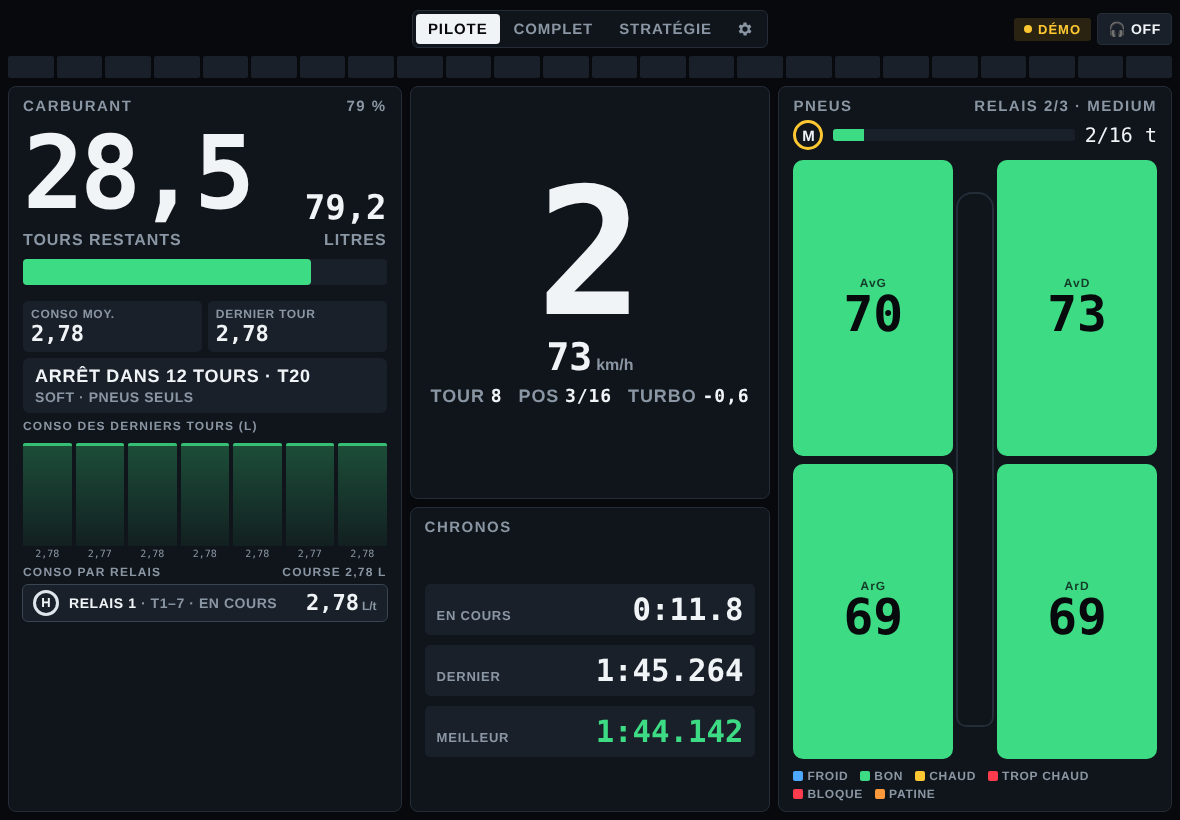
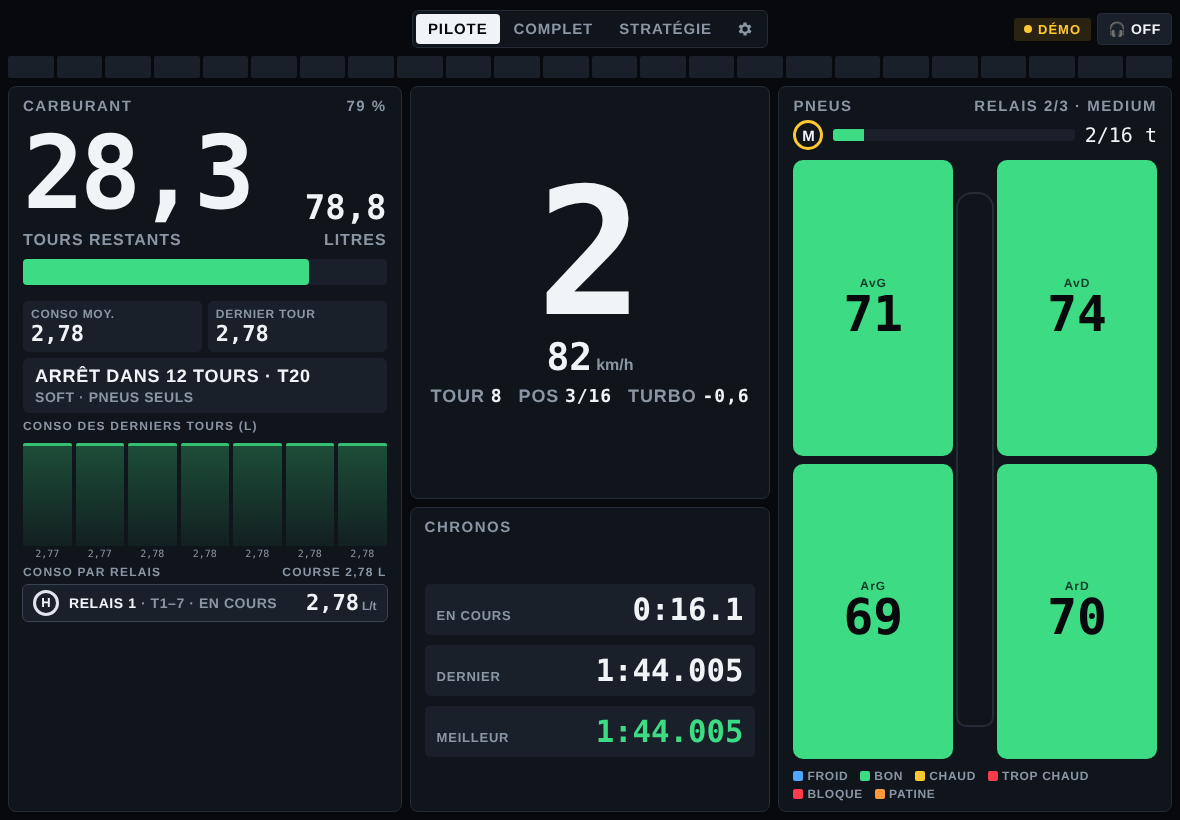
Stratégie : retrait des réglages usure et conso ; Pilote : alerte stand clignotante au-dessus du rapport
Claude-Session: https://claude.ai/code/session_01BTEhDGdTr51o2wPCPodFJh

diff --git a/race-engineer/web/strategie.html b/race-engineer/web/strategie.html
@@ -242,8 +242,6 @@ nav.tabs3 a:focus-visible{outline:2px solid var(--accent);outline-offset:1px}
       <section class="panel">
         <h2>Réglages du salon GT7</h2>
         <div class="fields">
-          <label>Usure des pneus<select id="mTyre"></select><span class="hint">pour info</span></label>
-          <label>Consommation carburant<select id="mFuel"></select><span class="hint">pour info</span></label>
           <label>Type de course<select id="mode"><option value="time">À la durée</option><option value="laps">Au nombre de tours</option></select></label>
           <label id="w-duree">Durée de course<span class="unit"><input type="number" id="duree" min="1" step="1"><span>min</span></span></label>
           <label id="w-laps" hidden>Nombre de tours<span class="unit"><input type="number" id="laps" min="1" step="1"><span>tours</span></span></label>
@@ -293,12 +291,11 @@ nav.tabs3 a:focus-visible{outline:2px solid var(--accent);outline-offset:1px}
 <script>
 const COMPS=[{k:"S",name:"Soft"},{k:"M",name:"Medium"},{k:"H",name:"Hard"}];
 const CN={S:"Soft",M:"Medium",H:"Hard"};
-const DEF={mode:"time",duree:60,laps:35,tank:100,start:100,mTyre:1,mFuel:1,rate:4,mDeb:100,mFin:86,mTours:5,pitMode:"rate",pitFull:50,pitTyre:30,qty:60,nReq:3,manual:false,seq:[],
+const DEF={mode:"time",duree:60,laps:35,tank:100,start:100,rate:4,mDeb:100,mFin:86,mTours:5,pitMode:"rate",pitFull:50,pitTyre:30,qty:60,nReq:3,manual:false,seq:[],
   S:{lap:"1:44.200",life:12,req:true},M:{lap:"1:45.000",life:20,req:true},H:{lap:"1:45.900",life:30,req:true}};
 const clone=o=>JSON.parse(JSON.stringify(o));
 let S=clone(DEF),tab="strat",selN=null;
 try{const o=JSON.parse(localStorage.getItem("gt7-endu-v1")||"null");if(o&&o.S){const d=clone(DEF);S=Object.assign(d,o.S);COMPS.forEach(c=>S[c.k]=Object.assign(clone(DEF[c.k]),o.S[c.k]||{}));tab=o.tab||tab}}catch(e){}
-if(!(+S.mTyre>=1&&+S.mTyre<=10))S.mTyre=1;if(!(+S.mFuel>=1&&+S.mFuel<=10))S.mFuel=1;
 const save=()=>{try{localStorage.setItem("gt7-endu-v1",JSON.stringify({S,tab}))}catch(e){}};
 const $=id=>document.getElementById(id);
 const num=v=>v===""||v==null?NaN:typeof v==="number"?v:parseFloat(String(v).replace(",","."));
@@ -313,13 +310,11 @@ const plural=(n,w)=>`${n} ${w}${n>1?"s":""}`;
 const MAX=999;
 
 /* ---- formulaire ---- */
-const mults=()=>Array.from({length:10},(_,i)=>i+1).map(v=>`<option value="${v}">${v}×</option>`).join("");
-$("mTyre").innerHTML=mults();$("mFuel").innerHTML=mults();
 $("tyres").innerHTML=COMPS.map(c=>`<tr><td class="lbl">${chip(c.k)} ${c.name}</td>
   <td><input type="text" id="${c.k}-lap" inputmode="decimal" aria-label="Temps au tour ${c.name}"></td>
   <td><input type="number" id="${c.k}-life" min="1" step="1" aria-label="Vie ${c.name} en tours"></td>
   <td class="l"><input type="checkbox" id="${c.k}-req" aria-label="${c.name} obligatoire"></td></tr>`).join("");
-const FIELDS=["mode","duree","laps","tank","start","mTyre","mFuel","rate","mDeb","mFin","mTours","pitMode","pitFull","pitTyre","qty","nReq"];
+const FIELDS=["mode","duree","laps","tank","start","rate","mDeb","mFin","mTours","pitMode","pitFull","pitTyre","qty","nReq"];
 function fillForm(){FIELDS.forEach(f=>$(f).value=S[f]);COMPS.forEach(c=>{["lap","life"].forEach(f=>$(`${c.k}-${f}`).value=S[c.k][f]);$(`${c.k}-req`).checked=!!S[c.k].req})}
 document.addEventListener("input",e=>{const el=e.target,id=el.id;if(!id)return;
   if(FIELDS.includes(id))S[id]=el.value;else{const m=id.match(/^([SMH])-(lap|life|req)$/);if(!m)return;S[m[1]][m[2]]=el.type==="checkbox"?el.checked:el.value}
@@ -331,10 +326,10 @@ $("reset").addEventListener("click",()=>{const b=$("reset");
 
 /* ---- calculs ---- */
 function derive(){
-  const P={mode:S.mode,T:num(S.duree)*60,L:Math.floor(num(S.laps)),tank:num(S.tank),start:Math.min(num(S.start),num(S.tank)),mTyre:num(S.mTyre),mFuel:num(S.mFuel),
+  const P={mode:S.mode,T:num(S.duree)*60,L:Math.floor(num(S.laps)),tank:num(S.tank),start:Math.min(num(S.start),num(S.tank)),
     rate:num(S.rate),pitMode:S.pitMode,pitFull:num(S.pitFull),pitTyre:num(S.pitTyre),nReq:+S.nReq};
   P.c0=(num(S.mDeb)-num(S.mFin))/num(S.mTours);
-  P.c=P.c0;   // conso mesurée = conso de course : le multiplicateur est seulement affiché
+  P.c=P.c0;   // conso mesurée avec les réglages du salon de la course
   P.comps=COMPS.map(c=>{const x=S[c.k],life=Math.floor(num(x.life));
     return{k:c.k,lap:parseLap(x.lap),req:!!x.req,life:Math.min(MAX,life),life0:life}});
   P.fuelCap=x=>P.c>0?Math.min(MAX,Math.floor(x/P.c+1e-9)):MAX;
@@ -394,7 +389,7 @@ function render(){
   $("v-strat").hidden=tab!=="strat";$("v-par").hidden=tab!=="par";
   $("w-duree").hidden=S.mode!=="time";$("w-laps").hidden=S.mode!=="laps";$("w-pitFull").hidden=S.pitMode!=="fixed";
   const P=derive();
-  $("meta").innerHTML=`<span>${P.mode==="time"?`Durée <b>${f0(num(S.duree))} min</b>`:`Course <b>${f0(P.L)} tours</b>`}</span><span>Usure <b>${S.mTyre}×</b></span><span>Conso <b>${S.mFuel}×</b></span><span>Refuel <b>${f1(P.rate)} L/s</b></span><span>Réservoir <b>${f0(P.tank)} L</b></span>`;
+  $("meta").innerHTML=`<span>${P.mode==="time"?`Durée <b>${f0(num(S.duree))} min</b>`:`Course <b>${f0(P.L)} tours</b>`}</span><span>Refuel <b>${f1(P.rate)} L/s</b></span><span>Réservoir <b>${f0(P.tank)} L</b></span>`;
   // sorties de l'onglet Paramètres
   $("consoOut").innerHTML=P.c0>0?`<span>Conso : <b>${f2(P.c)} L/tour</b></span><span>Plein de ${f0(P.tank)} L : <b>${P.c>0?Math.floor(P.tank/P.c+1e-9)+" tours":"illimité"}</b></span>`:`<span>Entre le carburant au début, à la fin et le nombre de tours.</span>`;
   $("pitOut").innerHTML=P.pitMode==="rate"
@@ -438,7 +433,7 @@ function render(){
     const gap=r===best?"–":d!==0?`${d>0?"+":""}${d} tour${Math.abs(d)>1?"s":""}`:`+${f1(r.time-best.time)} s`;
     return`<tr class="pick${!useManual&&n===selN?" sel":""}" data-n="${n}" tabindex="0"><td>${plural(n,"arrêt")}${r===best?'<span class="tag">Meilleure</span>':""}</td><td class="l"><span class="chips">${r.seq.map(g=>chip(g.k)).join("")}</span></td><td>${mn===mx?mn:mn+"–"+mx}</td><td><b>${r.laps}</b></td><td>${f0(r.pits)} s</td><td>${gap}</td></tr>`}).join("");
   $("kpis").innerHTML=[
-    ["Conso / tour",f2(P.c)+" L",`salon : conso ${S.mFuel}×`,0],
+    ["Conso / tour",f2(P.c)+" L",`mesurée sur ${f0(num(S.mTours))} tours`,0],
     ["Tours avec un plein",P.c>0?Math.floor(P.tank/P.c+1e-9):"∞",`${f0(P.tank)} L`,0],
     ["Arrêts",nStops(sel),useManual?"mon choix de gommes":selN===nStops(best)?"stratégie conseillée":"stratégie choisie",1],
     ["Tours de course",sel.laps,P.mode==="time"?"drapeau à damier inclus":"fixés",0],

diff --git a/index.html b/index.html
@@ -223,8 +223,6 @@ img{max-width:100%}
       <section class="panel">
         <h2>Réglages du salon GT7</h2>
         <div class="fields">
-          <label>Usure des pneus<select id="mTyre"></select><span class="hint">pour info</span></label>
-          <label>Consommation carburant<select id="mFuel"></select><span class="hint">pour info</span></label>
           <label>Type de course<select id="mode"><option value="time">À la durée</option><option value="laps">Au nombre de tours</option></select></label>
           <label id="w-duree">Durée de course<span class="unit"><input type="number" id="duree" min="1" step="1"><span>min</span></span></label>
           <label id="w-laps" hidden>Nombre de tours<span class="unit"><input type="number" id="laps" min="1" step="1"><span>tours</span></span></label>
@@ -274,12 +272,11 @@ img{max-width:100%}
 <script>
 const COMPS=[{k:"S",name:"Soft"},{k:"M",name:"Medium"},{k:"H",name:"Hard"}];
 const CN={S:"Soft",M:"Medium",H:"Hard"};
-const DEF={mode:"time",duree:60,laps:35,tank:100,start:100,mTyre:1,mFuel:1,rate:4,mDeb:100,mFin:86,mTours:5,pitMode:"rate",pitFull:50,pitTyre:30,qty:60,nReq:3,manual:false,seq:[],
+const DEF={mode:"time",duree:60,laps:35,tank:100,start:100,rate:4,mDeb:100,mFin:86,mTours:5,pitMode:"rate",pitFull:50,pitTyre:30,qty:60,nReq:3,manual:false,seq:[],
   S:{lap:"1:44.200",life:12,req:true},M:{lap:"1:45.000",life:20,req:true},H:{lap:"1:45.900",life:30,req:true}};
 const clone=o=>JSON.parse(JSON.stringify(o));
 let S=clone(DEF),tab="strat",selN=null;
 try{const o=JSON.parse(localStorage.getItem("gt7-endu-v1")||"null");if(o&&o.S){const d=clone(DEF);S=Object.assign(d,o.S);COMPS.forEach(c=>S[c.k]=Object.assign(clone(DEF[c.k]),o.S[c.k]||{}));tab=o.tab||tab}}catch(e){}
-if(!(+S.mTyre>=1&&+S.mTyre<=10))S.mTyre=1;if(!(+S.mFuel>=1&&+S.mFuel<=10))S.mFuel=1;
 const save=()=>{try{localStorage.setItem("gt7-endu-v1",JSON.stringify({S,tab}))}catch(e){}};
 const $=id=>document.getElementById(id);
 const num=v=>v===""||v==null?NaN:typeof v==="number"?v:parseFloat(String(v).replace(",","."));
@@ -294,13 +291,11 @@ const plural=(n,w)=>`${n} ${w}${n>1?"s":""}`;
 const MAX=999;
 
 /* ---- formulaire ---- */
-const mults=()=>Array.from({length:10},(_,i)=>i+1).map(v=>`<option value="${v}">${v}×</option>`).join("");
-$("mTyre").innerHTML=mults();$("mFuel").innerHTML=mults();
 $("tyres").innerHTML=COMPS.map(c=>`<tr><td class="lbl">${chip(c.k)} ${c.name}</td>
   <td><input type="text" id="${c.k}-lap" inputmode="decimal" aria-label="Temps au tour ${c.name}"></td>
   <td><input type="number" id="${c.k}-life" min="1" step="1" aria-label="Vie ${c.name} en tours"></td>
   <td class="l"><input type="checkbox" id="${c.k}-req" aria-label="${c.name} obligatoire"></td></tr>`).join("");
-const FIELDS=["mode","duree","laps","tank","start","mTyre","mFuel","rate","mDeb","mFin","mTours","pitMode","pitFull","pitTyre","qty","nReq"];
+const FIELDS=["mode","duree","laps","tank","start","rate","mDeb","mFin","mTours","pitMode","pitFull","pitTyre","qty","nReq"];
 function fillForm(){FIELDS.forEach(f=>$(f).value=S[f]);COMPS.forEach(c=>{["lap","life"].forEach(f=>$(`${c.k}-${f}`).value=S[c.k][f]);$(`${c.k}-req`).checked=!!S[c.k].req})}
 document.addEventListener("input",e=>{const el=e.target,id=el.id;if(!id)return;
   if(FIELDS.includes(id))S[id]=el.value;else{const m=id.match(/^([SMH])-(lap|life|req)$/);if(!m)return;S[m[1]][m[2]]=el.type==="checkbox"?el.checked:el.value}
@@ -312,10 +307,10 @@ $("reset").addEventListener("click",()=>{const b=$("reset");
 
 /* ---- calculs ---- */
 function derive(){
-  const P={mode:S.mode,T:num(S.duree)*60,L:Math.floor(num(S.laps)),tank:num(S.tank),start:Math.min(num(S.start),num(S.tank)),mTyre:num(S.mTyre),mFuel:num(S.mFuel),
+  const P={mode:S.mode,T:num(S.duree)*60,L:Math.floor(num(S.laps)),tank:num(S.tank),start:Math.min(num(S.start),num(S.tank)),
     rate:num(S.rate),pitMode:S.pitMode,pitFull:num(S.pitFull),pitTyre:num(S.pitTyre),nReq:+S.nReq};
   P.c0=(num(S.mDeb)-num(S.mFin))/num(S.mTours);
-  P.c=P.c0;   // conso mesurée = conso de course : le multiplicateur est seulement affiché
+  P.c=P.c0;   // conso mesurée avec les réglages du salon de la course
   P.comps=COMPS.map(c=>{const x=S[c.k],life=Math.floor(num(x.life));
     return{k:c.k,lap:parseLap(x.lap),req:!!x.req,life:Math.min(MAX,life),life0:life}});
   P.fuelCap=x=>P.c>0?Math.min(MAX,Math.floor(x/P.c+1e-9)):MAX;
@@ -375,7 +370,7 @@ function render(){
   $("v-strat").hidden=tab!=="strat";$("v-par").hidden=tab!=="par";
   $("w-duree").hidden=S.mode!=="time";$("w-laps").hidden=S.mode!=="laps";$("w-pitFull").hidden=S.pitMode!=="fixed";
   const P=derive();
-  $("meta").innerHTML=`<span>${P.mode==="time"?`Durée <b>${f0(num(S.duree))} min</b>`:`Course <b>${f0(P.L)} tours</b>`}</span><span>Usure <b>${S.mTyre}×</b></span><span>Conso <b>${S.mFuel}×</b></span><span>Refuel <b>${f1(P.rate)} L/s</b></span><span>Réservoir <b>${f0(P.tank)} L</b></span>`;
+  $("meta").innerHTML=`<span>${P.mode==="time"?`Durée <b>${f0(num(S.duree))} min</b>`:`Course <b>${f0(P.L)} tours</b>`}</span><span>Refuel <b>${f1(P.rate)} L/s</b></span><span>Réservoir <b>${f0(P.tank)} L</b></span>`;
   // sorties de l'onglet Paramètres
   $("consoOut").innerHTML=P.c0>0?`<span>Conso : <b>${f2(P.c)} L/tour</b></span><span>Plein de ${f0(P.tank)} L : <b>${P.c>0?Math.floor(P.tank/P.c+1e-9)+" tours":"illimité"}</b></span>`:`<span>Entre le carburant au début, à la fin et le nombre de tours.</span>`;
   $("pitOut").innerHTML=P.pitMode==="rate"
@@ -416,7 +411,7 @@ function render(){
     const gap=r===best?"–":d!==0?`${d>0?"+":""}${d} tour${Math.abs(d)>1?"s":""}`:`+${f1(r.time-best.time)} s`;
     return`<tr class="pick${!useManual&&n===selN?" sel":""}" data-n="${n}" tabindex="0"><td>${plural(n,"arrêt")}${r===best?'<span class="tag">Meilleure</span>':""}</td><td class="l"><span class="chips">${r.seq.map(g=>chip(g.k)).join("")}</span></td><td>${mn===mx?mn:mn+"–"+mx}</td><td><b>${r.laps}</b></td><td>${f0(r.pits)} s</td><td>${gap}</td></tr>`}).join("");
   $("kpis").innerHTML=[
-    ["Conso / tour",f2(P.c)+" L",`salon : conso ${S.mFuel}×`,0],
+    ["Conso / tour",f2(P.c)+" L",`mesurée sur ${f0(num(S.mTours))} tours`,0],
     ["Tours avec un plein",P.c>0?Math.floor(P.tank/P.c+1e-9):"∞",`${f0(P.tank)} L`,0],
     ["Arrêts",nStops(sel),useManual?"mon choix de gommes":selN===nStops(best)?"stratégie conseillée":"stratégie choisie",1],
     ["Tours de course",sel.laps,P.mode==="time"?"drapeau à damier inclus":"fixés",0],

diff --git a/race-engineer/web/pilote.html b/race-engineer/web/pilote.html
@@ -101,6 +101,13 @@ nav.tabs3 a:focus-visible{outline:2px solid var(--accent);outline-offset:1px}
 /* centre */
 #cCore{grid-area:core;align-items:center;justify-content:center;text-align:center}
 .gear{font:700 clamp(110px,15vw,210px)/.85 var(--f-mono)}
+/* alerte stand, au-dessus du rapport engagé, clignotante */
+.pitAlert{align-self:stretch;border-radius:6px;padding:6px 10px;margin-bottom:6px;font:700 clamp(17px,2.1vw,26px)/1.1 var(--f-display);text-transform:uppercase;letter-spacing:.04em;animation:pa 1s steps(2,end) infinite}
+.pitAlert small{display:block;font-size:.62em;letter-spacing:.06em;margin-top:2px;opacity:.9}
+.pitAlert.warn{background:var(--warn);color:#07090c}
+.pitAlert.crit{background:var(--accent);color:#fff}
+@keyframes pa{50%{opacity:.15}}
+@media (prefers-reduced-motion:reduce){.pitAlert{animation:none}}
 .speed{font:700 38px var(--f-mono);font-variant-numeric:tabular-nums}
 .speed small{font:600 16px var(--f-display);color:var(--muted);margin-left:4px}
 .coreRow{display:flex;gap:16px;justify-content:center;font:600 18px var(--f-display);color:var(--muted);text-transform:uppercase;letter-spacing:.05em}
@@ -149,6 +156,9 @@ nav.tabs3 a:focus-visible{outline:2px solid var(--accent);outline-offset:1px}
   .relays .chip{width:20px;height:20px;font-size:11px;border-width:2px}
   .relays .who{font-size:11px}.relays b{font-size:15px}
   .gear{font-size:clamp(56px,30vh,150px)}
+  .pitAlert{font-size:13px;padding:3px 8px;margin-bottom:3px}.pitAlert small{font-size:10px}
+  .pitAlert:not([hidden])~.gear{font-size:clamp(40px,19vh,110px)}
+  #cCore:has(.pitAlert:not([hidden])) .coreRow{font-size:11px}
   .speed{font-size:clamp(18px,7vh,32px)}.speed small{font-size:12px}
   .coreRow{font-size:12px;gap:10px}
   .chronos{gap:3px}.chronos div{padding:2px 8px}.chronos small{font-size:10px}.chronos b{font-size:clamp(14px,5.5vh,24px)}
@@ -214,6 +224,7 @@ nav.tabs3 a:focus-visible{outline:2px solid var(--accent);outline-offset:1px}
   </section>
 
   <section class="card" id="cCore">
+    <div class="pitAlert" id="pitAlert" hidden role="alert"><span id="paTitle"></span><small id="paText"></small></div>
     <div class="gear" id="gear">N</div>
     <div class="speed"><span id="speed">0</span><small>km/h</small></div>
     <div class="coreRow"><span>Tour <b id="lap">–</b></span><span>Pos <b id="pos">–</b></span><span>Turbo <b id="boost">–</b></span></div>
@@ -381,6 +392,10 @@ function render(s){
     else{stop.className="stop"+(O.warnLaps>0&&nx.inLaps<=O.warnLaps?" warn":"");$("stopTitle").textContent=`Arrêt dans ${nx.inLaps} tour${nx.inLaps>1?"s":""} · T${nx.endLap}`;$("stopText").textContent=txt}}
   else if(fuelShort){stop.className="stop warn";$("stopTitle").textContent=`Essence courte pour finir · ${f1(left)} tours`;$("stopText").textContent=`Il manque ${fuelShort.miss} L : économise ou ravitaille`}
   else{stop.className="stop";$("stopTitle").textContent=nx&&nx.done?"Dernier relais":"Pas de plan";$("stopText").textContent=nx&&nx.done?"Plus d'arrêt prévu":"Choisis un plan dans Stratégie"}
+  // la même alerte, en gros et clignotante au-dessus du rapport engagé
+  {const lvl=stop.classList.contains("crit")?"crit":stop.classList.contains("warn")?"warn":"",pa=$("pitAlert");
+   if(lvl){pa.hidden=false;pa.className="pitAlert "+lvl;$("paTitle").textContent=$("stopTitle").textContent;$("paText").textContent=$("stopText").textContent}
+   else pa.hidden=true}
   // conso des derniers tours
   const hl=laps.filter(l=>fin(l.fuel)&&!l.pit).slice(-10);
   if(hl.length!==render._hl||(hl.length&&hl[hl.length-1].n!==render._hn)){render._hl=hl.length;render._hn=hl.length?hl[hl.length-1].n:null;

diff --git a/sw.js b/sw.js
@@ -1,6 +1,6 @@
 // Fonctionnement hors ligne : la page et ses fichiers sont gardés sur le téléphone.
 // Change VERSION à chaque mise à jour de index.html pour que l'iPhone récupère la nouvelle version.
-const VERSION = "strat-gt7-v7";
+const VERSION = "strat-gt7-v8";
 const APP = ["./", "./index.html", "./manifest.webmanifest",
   "./icons/apple-touch-icon.png", "./icons/icon-192.png", "./icons/icon-512.png", "./icons/icon-maskable-512.png"];
 

diff --git a/README.md b/README.md
@@ -33,7 +33,6 @@ Sur Android, ouvre le lien dans Chrome, puis **⋮ → Ajouter à l'écran d'acc
 
 ### 1. Régler le salon (onglet Paramètres)
 - **Type de course** : à la durée (ex. 60 min) ou au nombre de tours.
-- **Usure des pneus** et **Consommation carburant** : les multiplicateurs du salon GT7 (1× à 10×), pour mémoire : ils ne changent pas les calculs.
 - **Refuel rate** : la vitesse de ravitaillement du salon, en litres par seconde.
 - **Réservoir** et **carburant au départ**, en litres.
 
